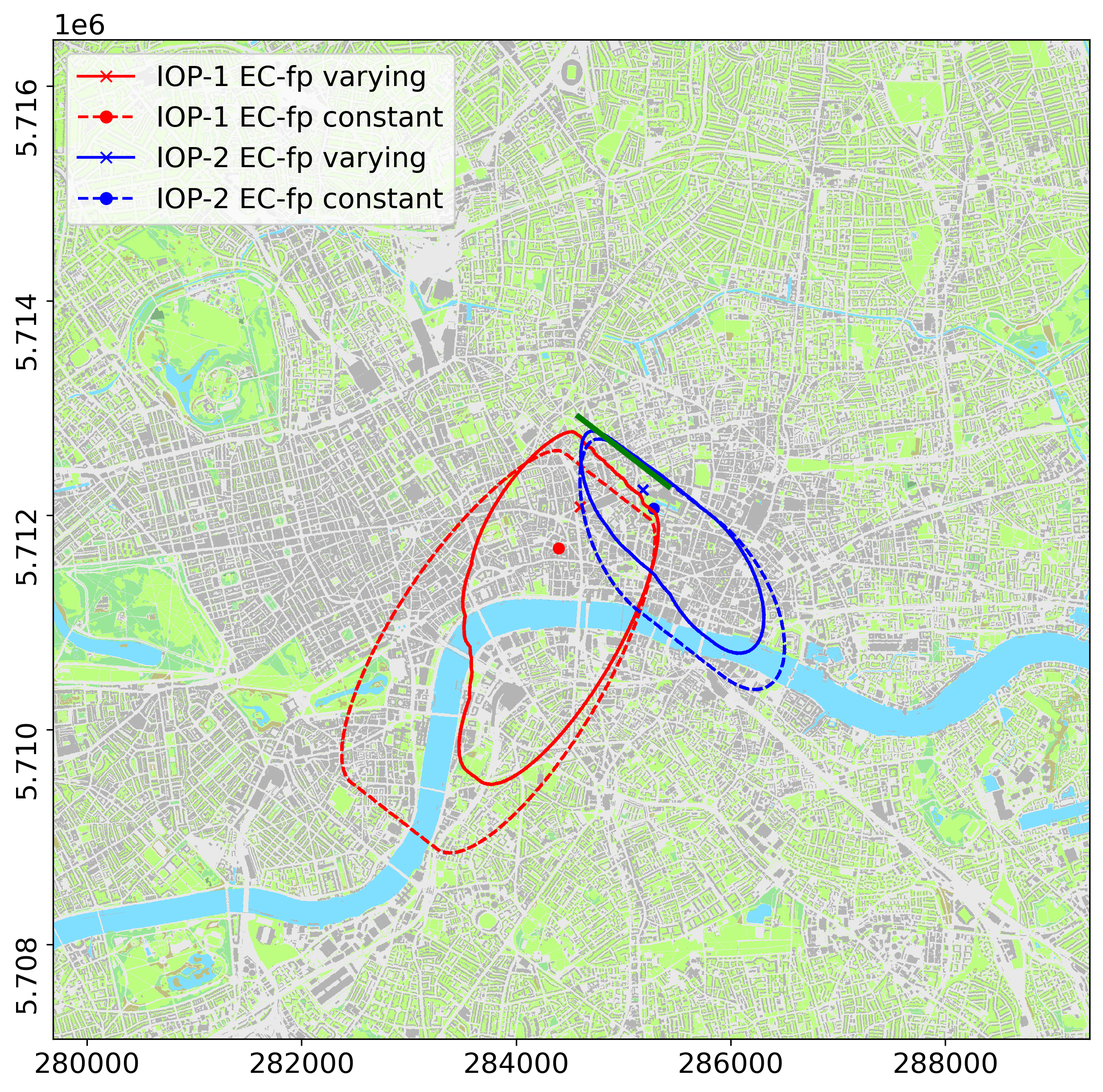
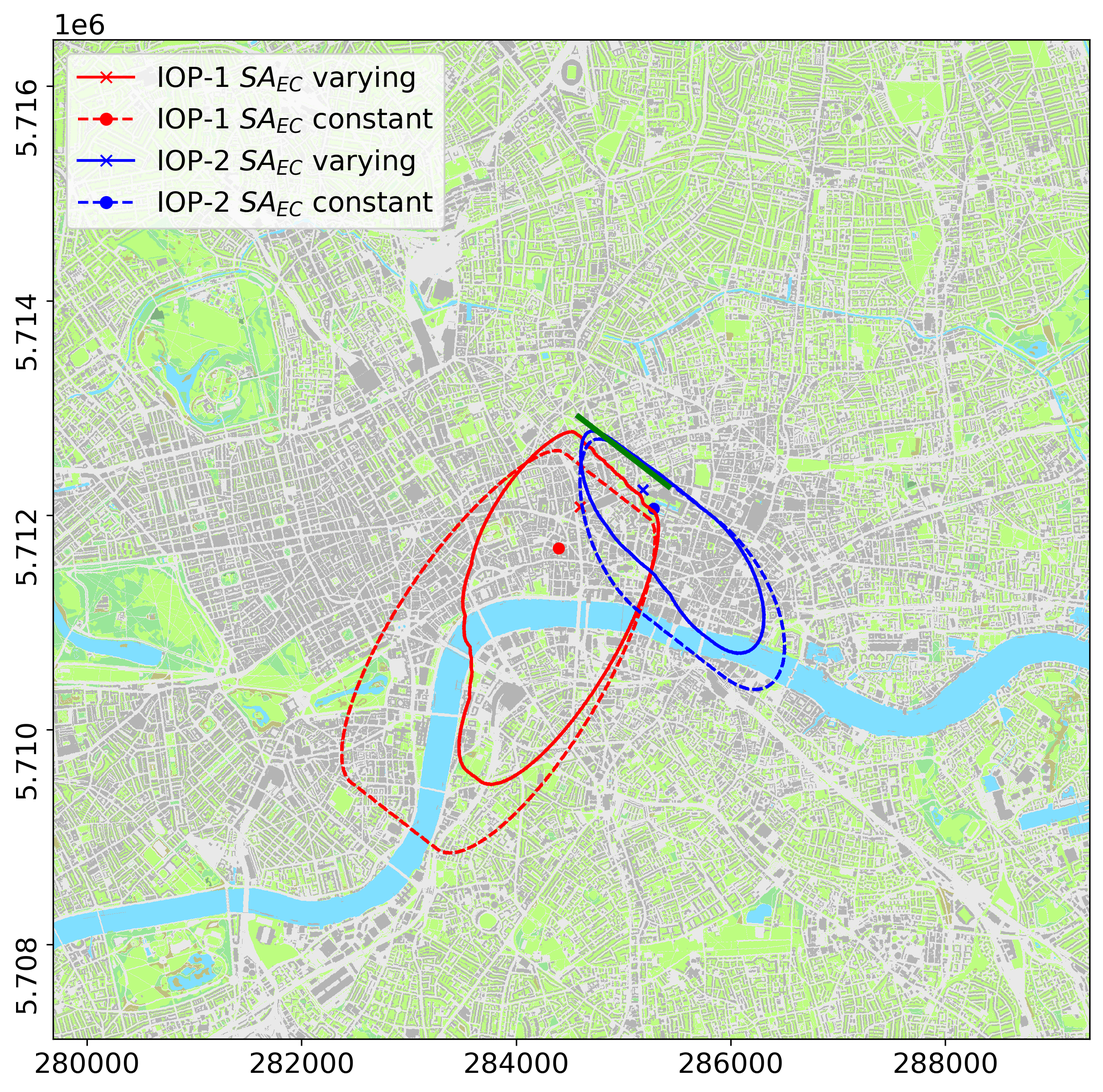
updated notation

Changed region(s): [[0.0622, 0.062, 0.4357, 0.2171]]

diff --git a/scint_plots/sa_method_tests/sa_method_tests.py b/scint_plots/sa_method_tests/sa_method_tests.py
@@ -126,8 +126,8 @@ def plot_method_tests(df):
              linestyle=linestyles['varying'])
 
     ax2.plot([], [], color='black', marker=markers['constant'], linestyle=linestyles['constant'],
-             label='EC-fp constant')
-    ax2.plot([], [], color='black', marker=markers['varying'], linestyle=linestyles['varying'], label='EC-fp varying')
+             label='$SA_{EC}$ constant')
+    ax2.plot([], [], color='black', marker=markers['varying'], linestyle=linestyles['varying'], label='$SA_{EC}$ varying')
     ax2.legend()
 
     ax2.set_ylabel('z$_{0}$ (m)')

diff --git a/scint_plots/sa_method_tests/sa_method_test_map.py b/scint_plots/sa_method_tests/sa_method_test_map.py
@@ -18,7 +18,7 @@ custom_linetype = ['-', '--', '-', '--']
 
 custom_marker = ['x', 'o', 'x', 'o']
 
-custom_labels = ['IOP-1 EC-fp varying', 'IOP-1 EC-fp constant', 'IOP-2 EC-fp varying', 'IOP-2 EC-fp constant']
+custom_labels = ['IOP-1 $SA_{EC}$ varying', 'IOP-1 $SA_{EC}$ constant', 'IOP-2 $SA_{EC}$ varying', 'IOP-2 $SA_{EC}$ constant']
 
 sa_lines.plot_sa_lines(file_list=file_list, colour_list=colour_list, doy_choice=False, save_path=current_dir, custom_labels=custom_labels, custom_linetype=custom_linetype, custom_marker=custom_marker)
 
